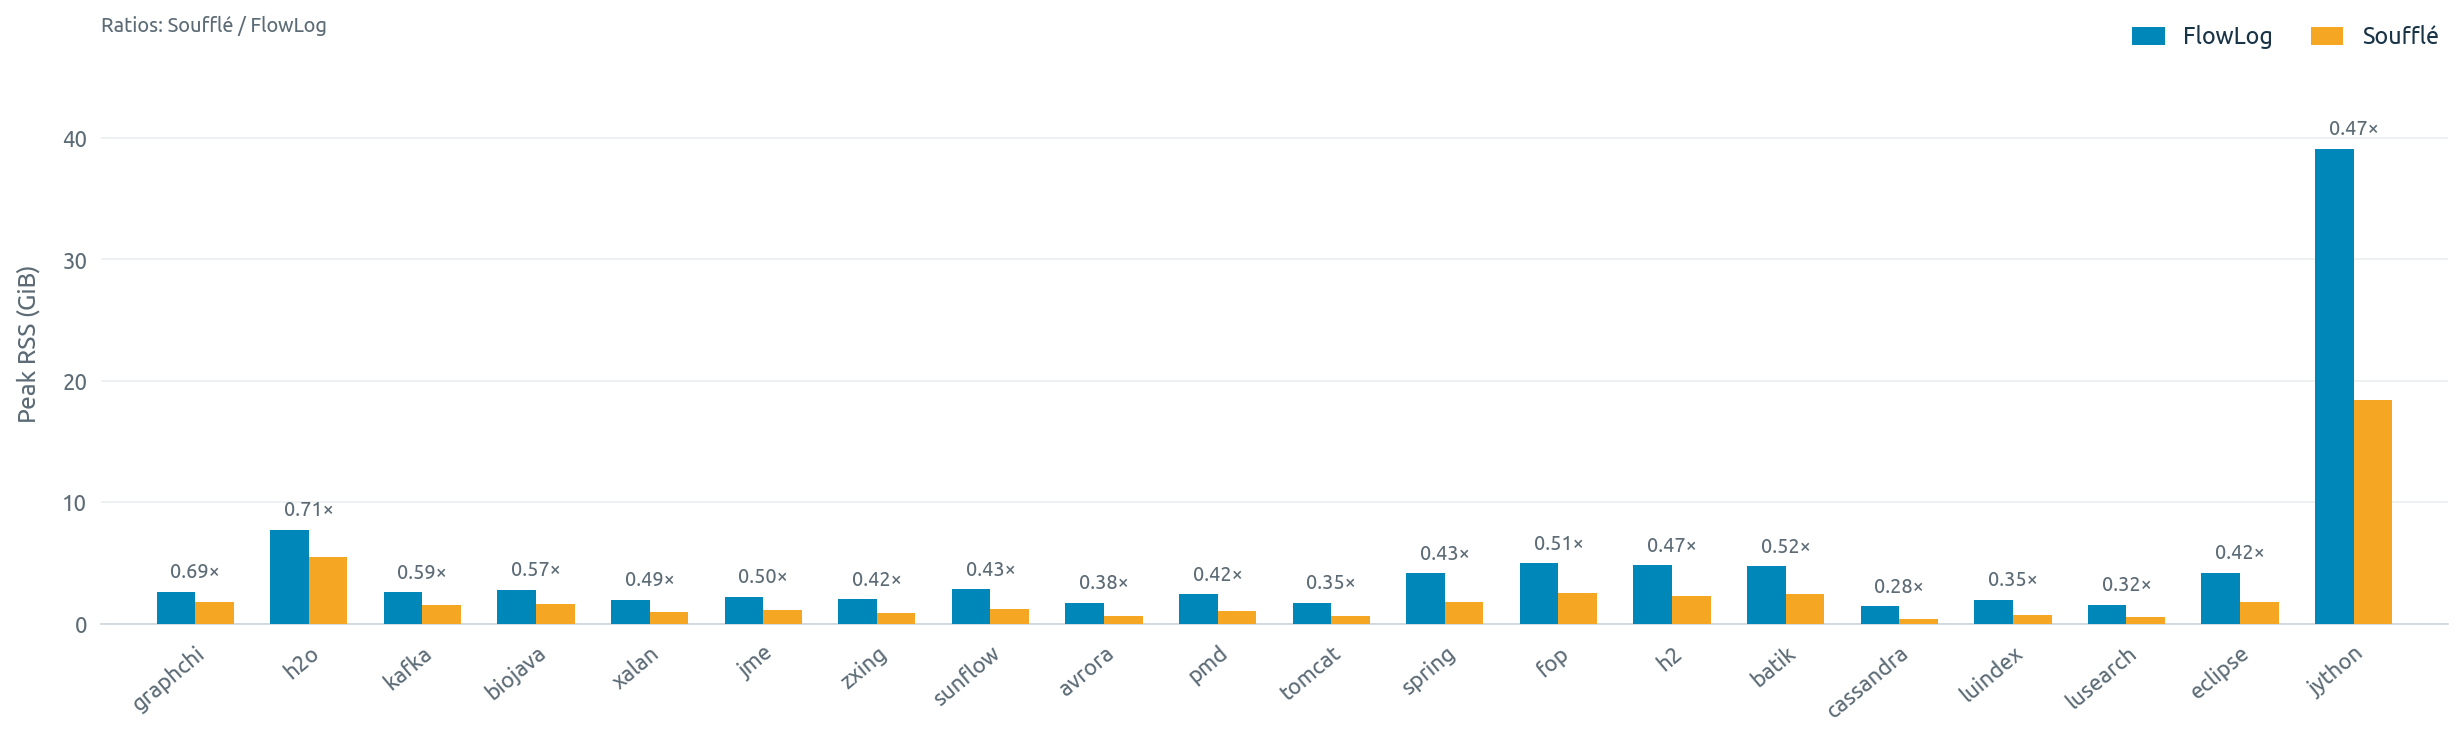
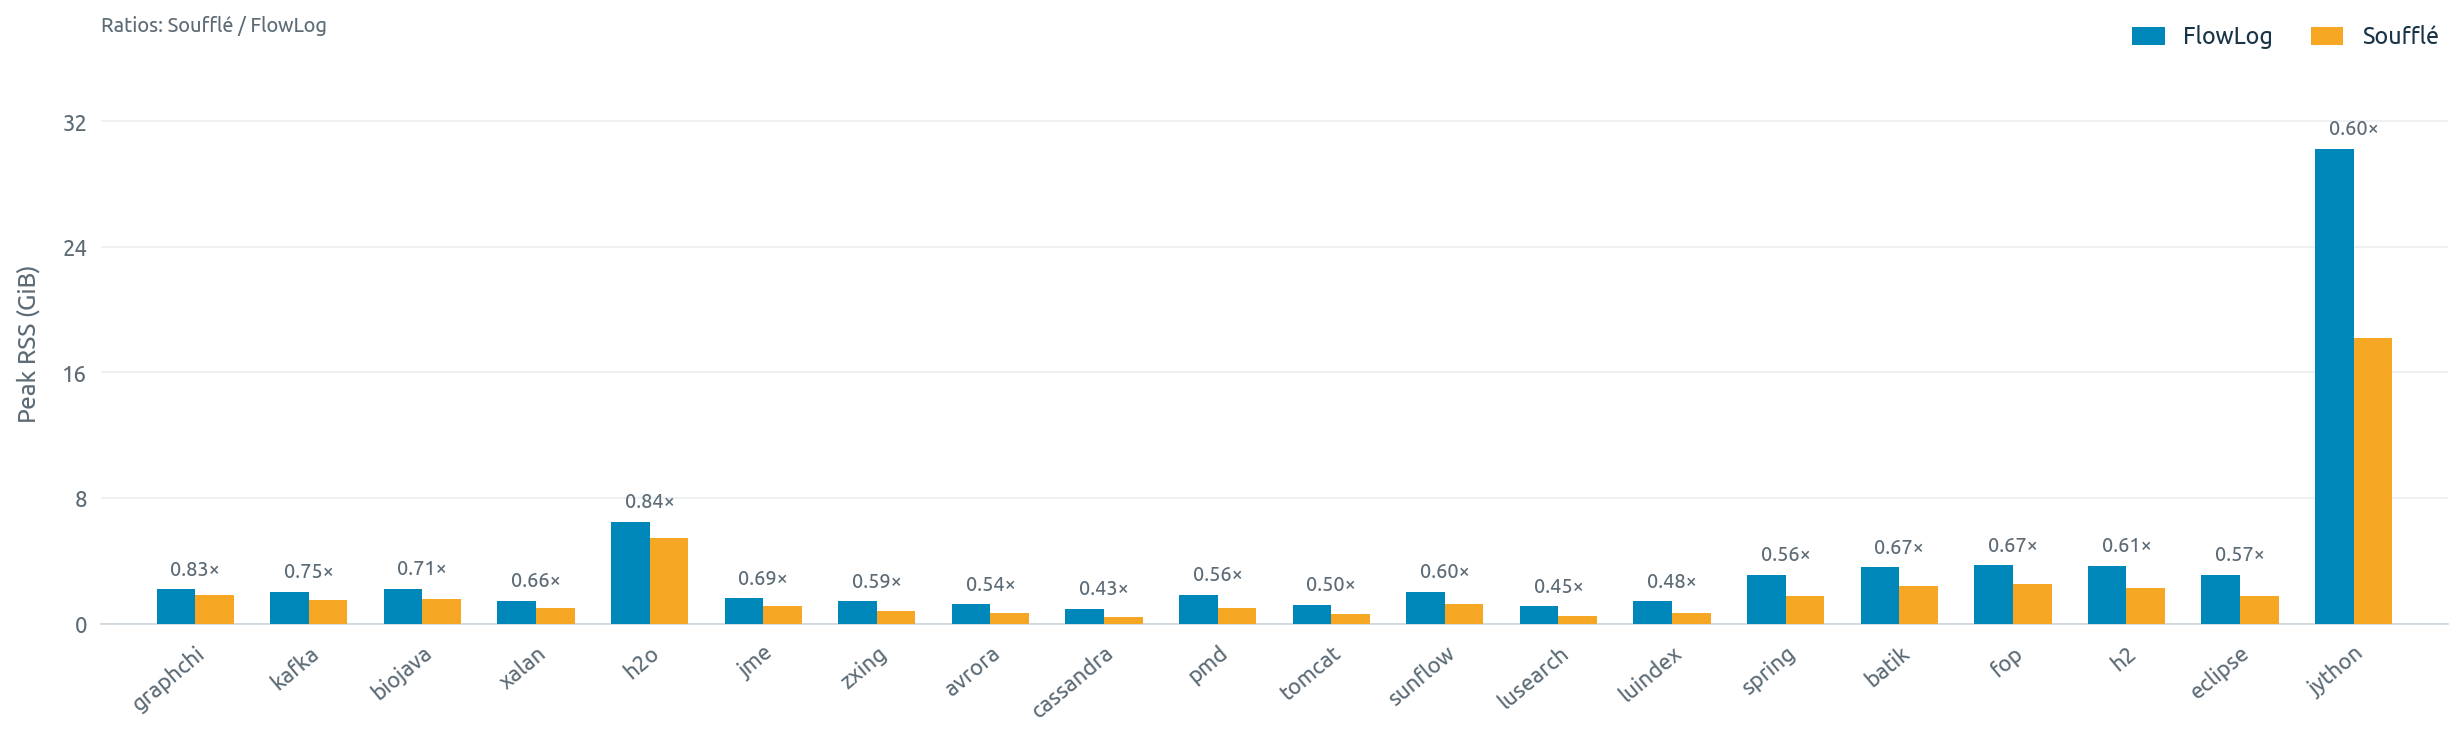
docs: refresh DOOP benchmark at 16 threads (#649)
Rerun the README's DOOP comparison against Soufflé at 16 threads with
FlowLog compiler 0.9.1 / runtime 0.7.1. The method, plot code, and
style match the 32-thread run.

FlowLog is faster on 19/20 DaCapo programs (geomean 3.87x, range
0.95-7.36x); jython is the one loss. Soufflé/FlowLog peak RSS geomean
is 0.61x.

Data and method: flowlog-rs/flowlog-bench#20.

Copilot-Session: b796cf04-7dcd-4722-bea4-49473b5cffb1

diff --git a/README.md b/README.md
@@ -15,7 +15,7 @@
 
 > **status** · under active development; interfaces may change.
 
-FlowLog compiles Datalog into efficient and scalable [Differential Dataflow](https://github.com/TimelyDataflow/differential-dataflow) rust executables.</h3> As such, FlowLog has first-class **incremental maintenance** — outputs update without recomputation as facts change. On DOOP points-to it runs **~3.7× faster than Soufflé** across 20 DaCapo programs (32 threads).
+FlowLog compiles Datalog into efficient and scalable [Differential Dataflow](https://github.com/TimelyDataflow/differential-dataflow) rust executables.</h3> As such, FlowLog has first-class **incremental maintenance** — outputs update without recomputation as facts change. On DOOP points-to it runs **~3.9× faster than Soufflé** across 20 DaCapo programs (geomean, 16 threads).
 
 ## Quick Start
 
@@ -140,19 +140,19 @@ A green oracle run is the definition of correct — see [`tests/README.md`](test
 
 ### vs Soufflé — DOOP
 
-On DOOP **default** points-to analysis (`doop/default.dl`) across all 20 [DaCapo](https://www.dacapobench.org/) programs at **32 threads** (FlowLog `-w 32`, Soufflé compiled and run with `-j 32`). All 20 match on **26 shared relation row counts**, including `VarPointsTo`.
+On DOOP **default** points-to analysis (`doop/default.dl`) across all 20 [DaCapo](https://www.dacapobench.org/) programs at **16 threads** (FlowLog `-w 16`, Soufflé compiled and run with `-j 16`). All 20 match on **26 shared relation row counts**, including `VarPointsTo`.
 
 <p align="center">
   <img src="docs/doop-time.png" alt="DOOP run time — FlowLog vs Soufflé" width="820"/>
 </p>
 
-**Run time** (run only; one-off compile excluded) — FlowLog is faster on **20/20**, geomean **3.68×** (range 1.45–5.50×).
+**Run time** (run only; one-off compile excluded) — FlowLog is faster on **19/20** (all but jython), geomean **3.87×** (range 0.95–7.36×).
 
 <p align="center">
   <img src="docs/doop-memory.png" alt="DOOP peak memory — FlowLog vs Soufflé" width="820"/>
 </p>
 
-**Peak memory** — Soufflé is leaner: Soufflé/FlowLog geomean **0.45×** (FlowLog trades memory for speed).
+**Peak memory** — Soufflé is leaner: Soufflé/FlowLog geomean **0.61×** (FlowLog trades memory for speed).
 
 Benchmark suite: [`flowlog-bench`](https://github.com/flowlog-rs/flowlog-bench).
 
